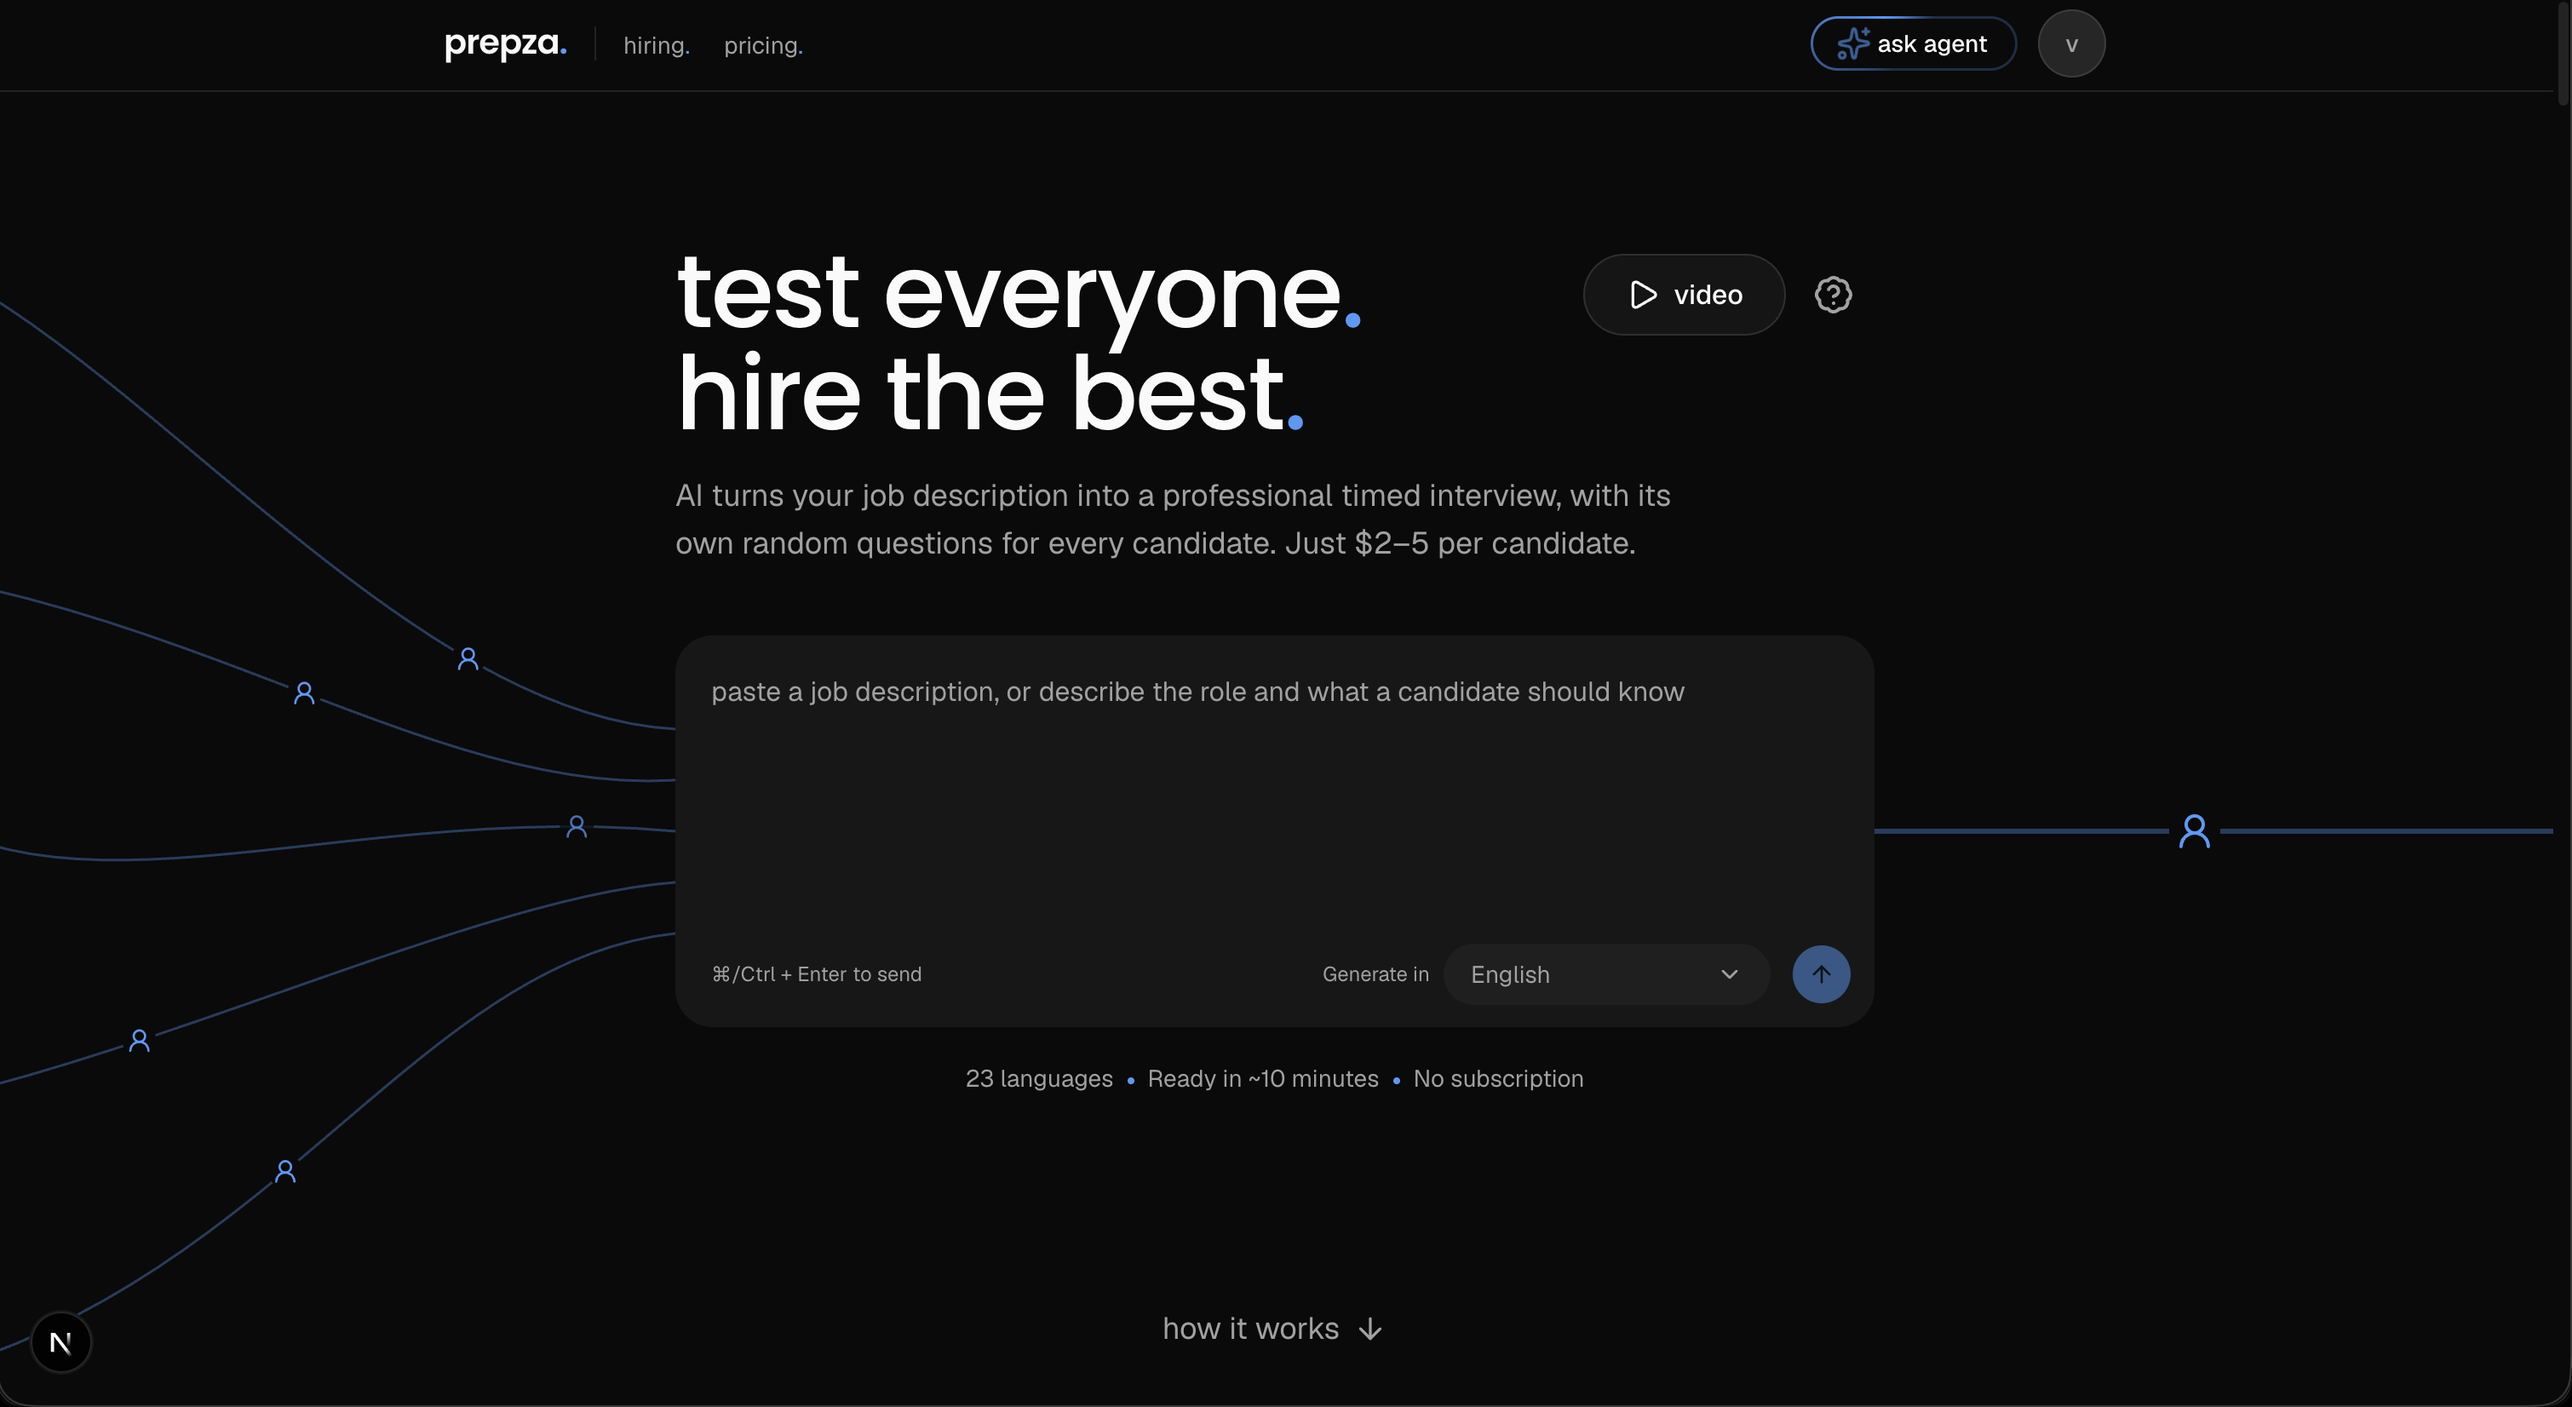
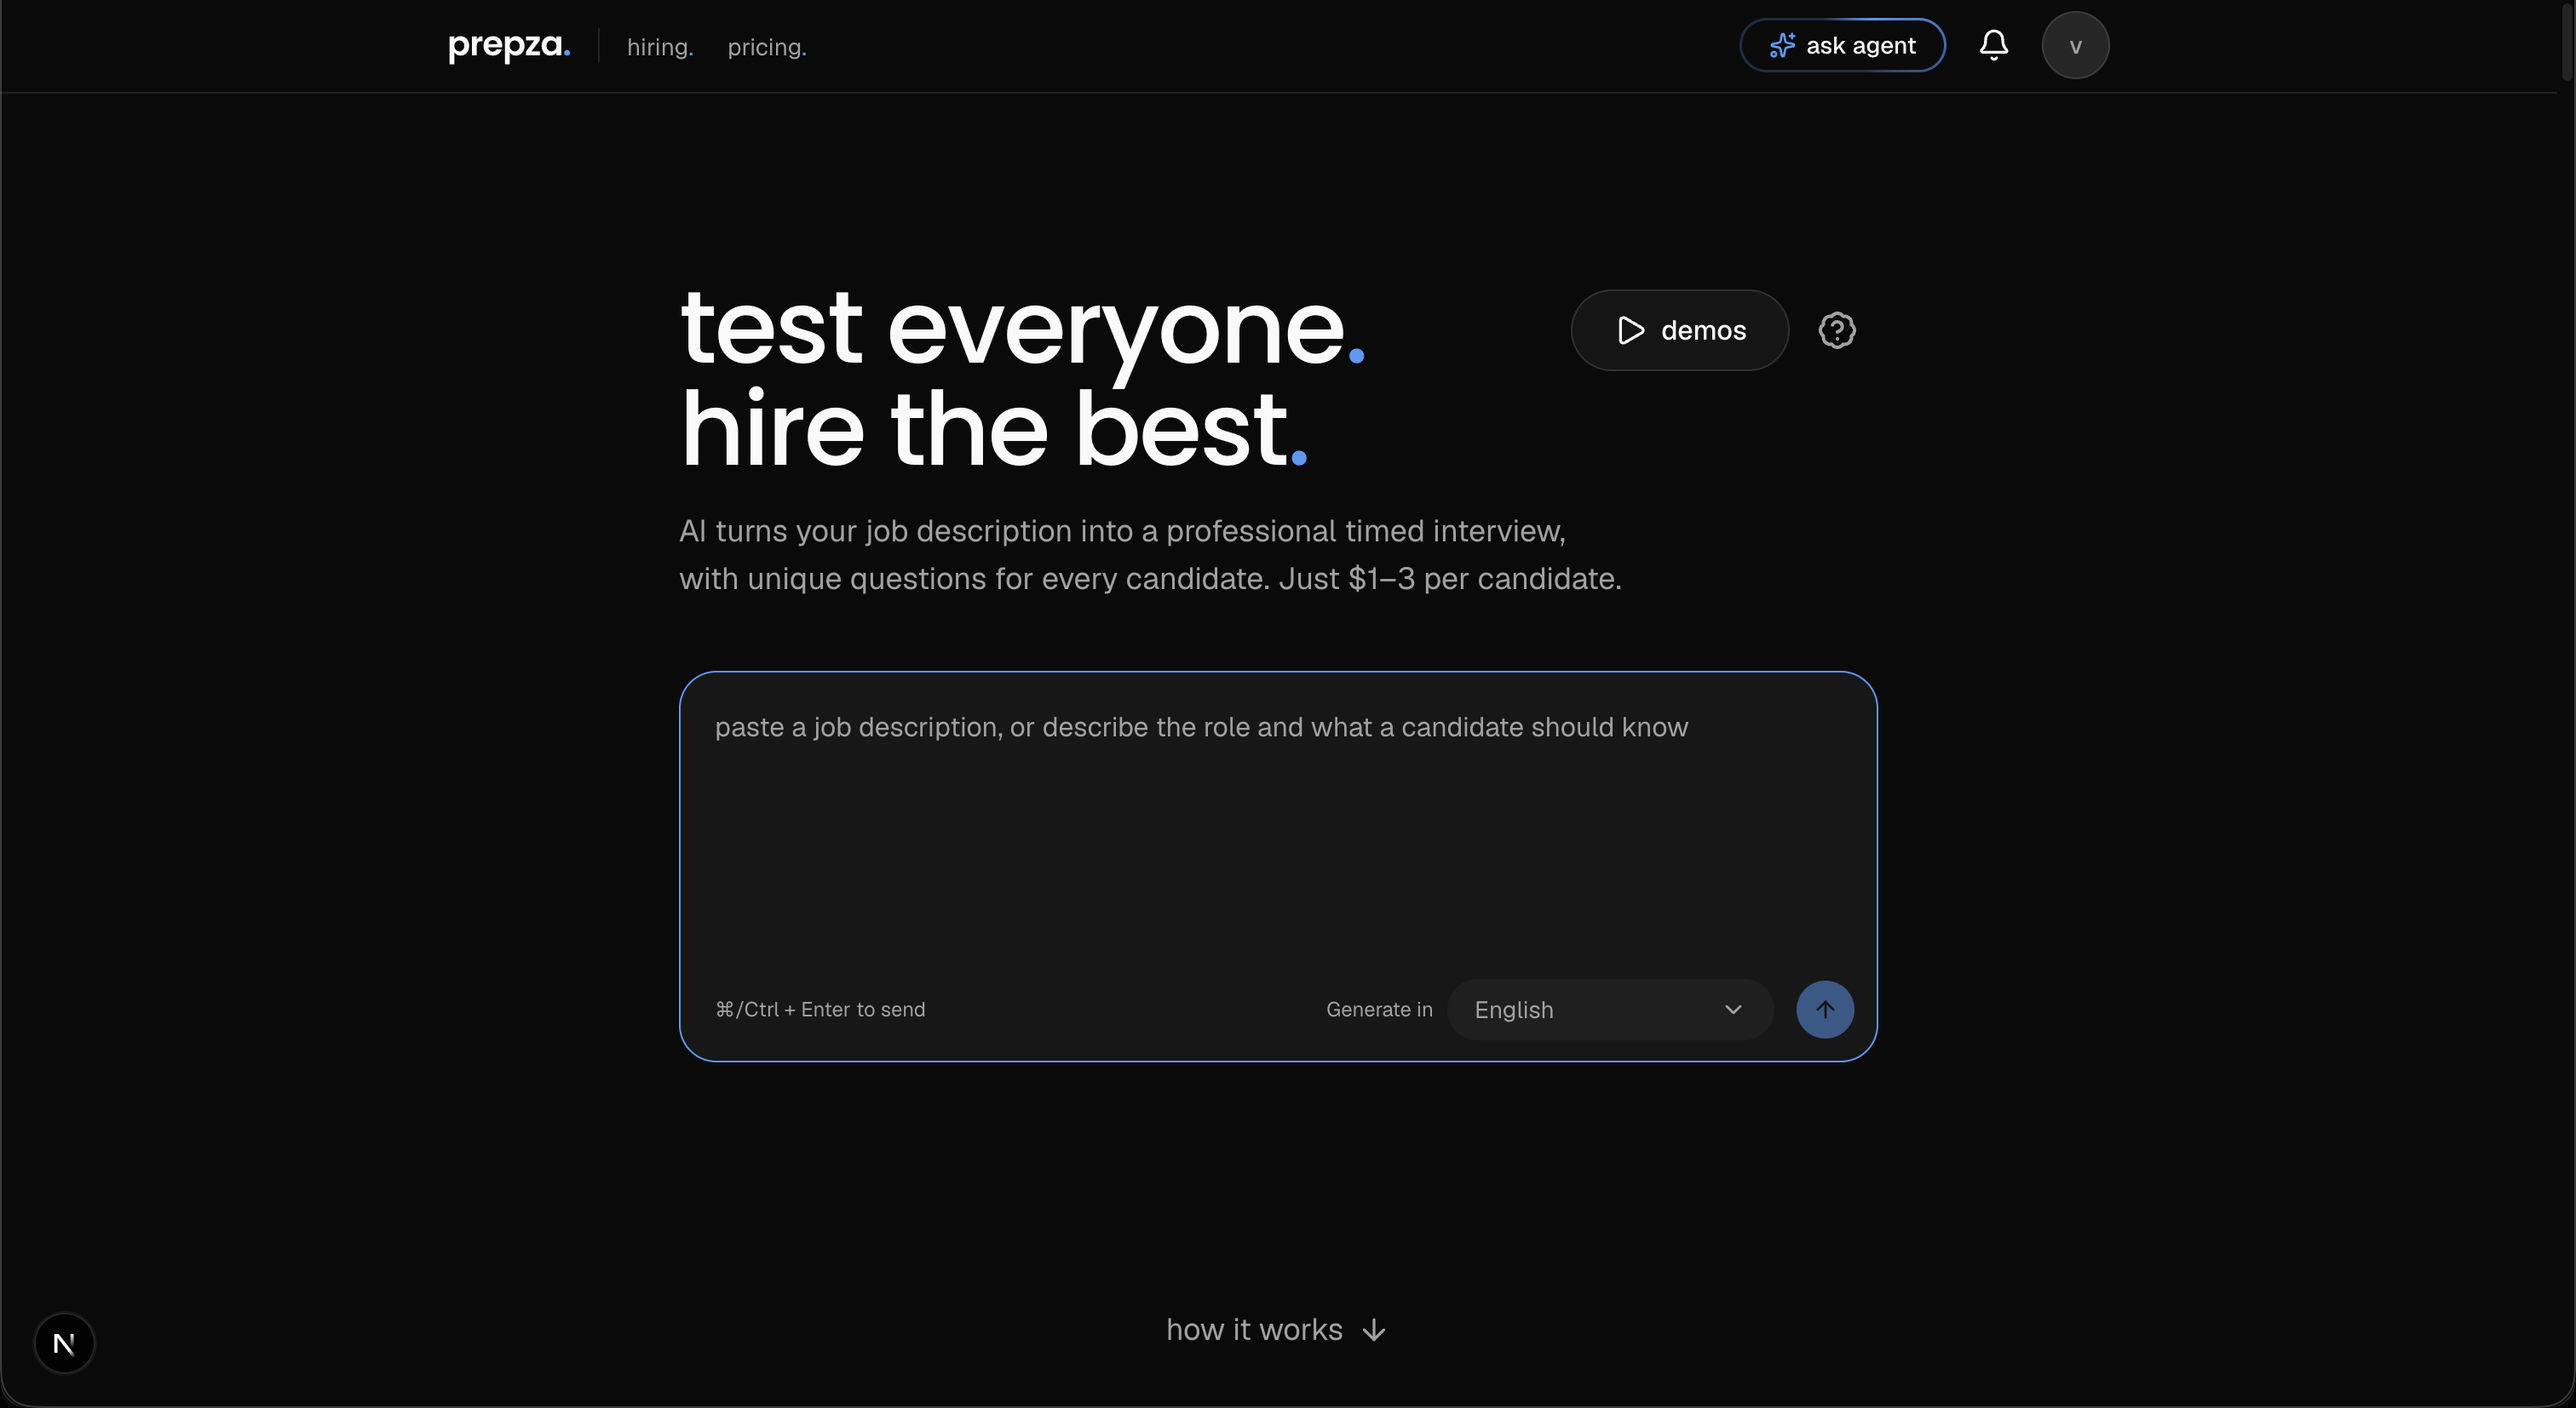
Revert "update readme screenshot"
It also took the DPA's transfers fix, which was still being checked;
the screenshot and the DPA fix go in as their own commits.

This reverts commit e91e95efae30da5f2a55f4e4ed709737ddca42f6.

diff --git a/services/rounds/app/constants/dpa.py b/services/rounds/app/constants/dpa.py
@@ -50,7 +50,7 @@ DPA_SECTIONS = [
         "heading": "Changes and transfers",
         "paragraphs": [
             "We email the company's owners and admins about a new sub-processor, or any other significant change to this agreement, at least 14 days before it applies; every earlier version stays readable on this page; a company that objects for reasonable data protection reasons can stop using prepza and delete its company.",
-            "Transfers outside the EU, all to the United States, are covered as listed above: to Google Firebase and Cloudflare under the EU-US Data Privacy Framework, and by OpenAI Ireland Ltd to OpenAI under the European Commission's standard contractual clauses; the company can ask for a copy of the safeguards.",
+            "Transfers outside the EU (to Google Firebase, and by OpenAI Ireland Ltd to OpenAI, in the United States) are covered by the EU-US Data Privacy Framework or the European Commission's standard contractual clauses, as listed above; the company can ask for a copy of the safeguards.",
         ],
     },
     {

diff --git a/frontend/content/documents/data-processing-agreement.md b/frontend/content/documents/data-processing-agreement.md
@@ -43,7 +43,7 @@ The company authorises these sub-processors, each bound by data protection terms
 
 We email the company's owners and admins about a new sub-processor, or any other significant change to this agreement, at least 14 days before it applies; every earlier version stays readable on this page; a company that objects for reasonable data protection reasons can stop using prepza and delete its company.
 
-Transfers outside the EU, all to the United States, are covered as listed above: to Google Firebase and Cloudflare under the EU-US Data Privacy Framework, and by OpenAI Ireland Ltd to OpenAI under the European Commission's standard contractual clauses; the company can ask for a copy of the safeguards.
+Transfers outside the EU (to Google Firebase, and by OpenAI Ireland Ltd to OpenAI, in the United States) are covered by the EU-US Data Privacy Framework or the European Commission's standard contractual clauses, as listed above; the company can ask for a copy of the safeguards.
 
 ## The company's duties
 
